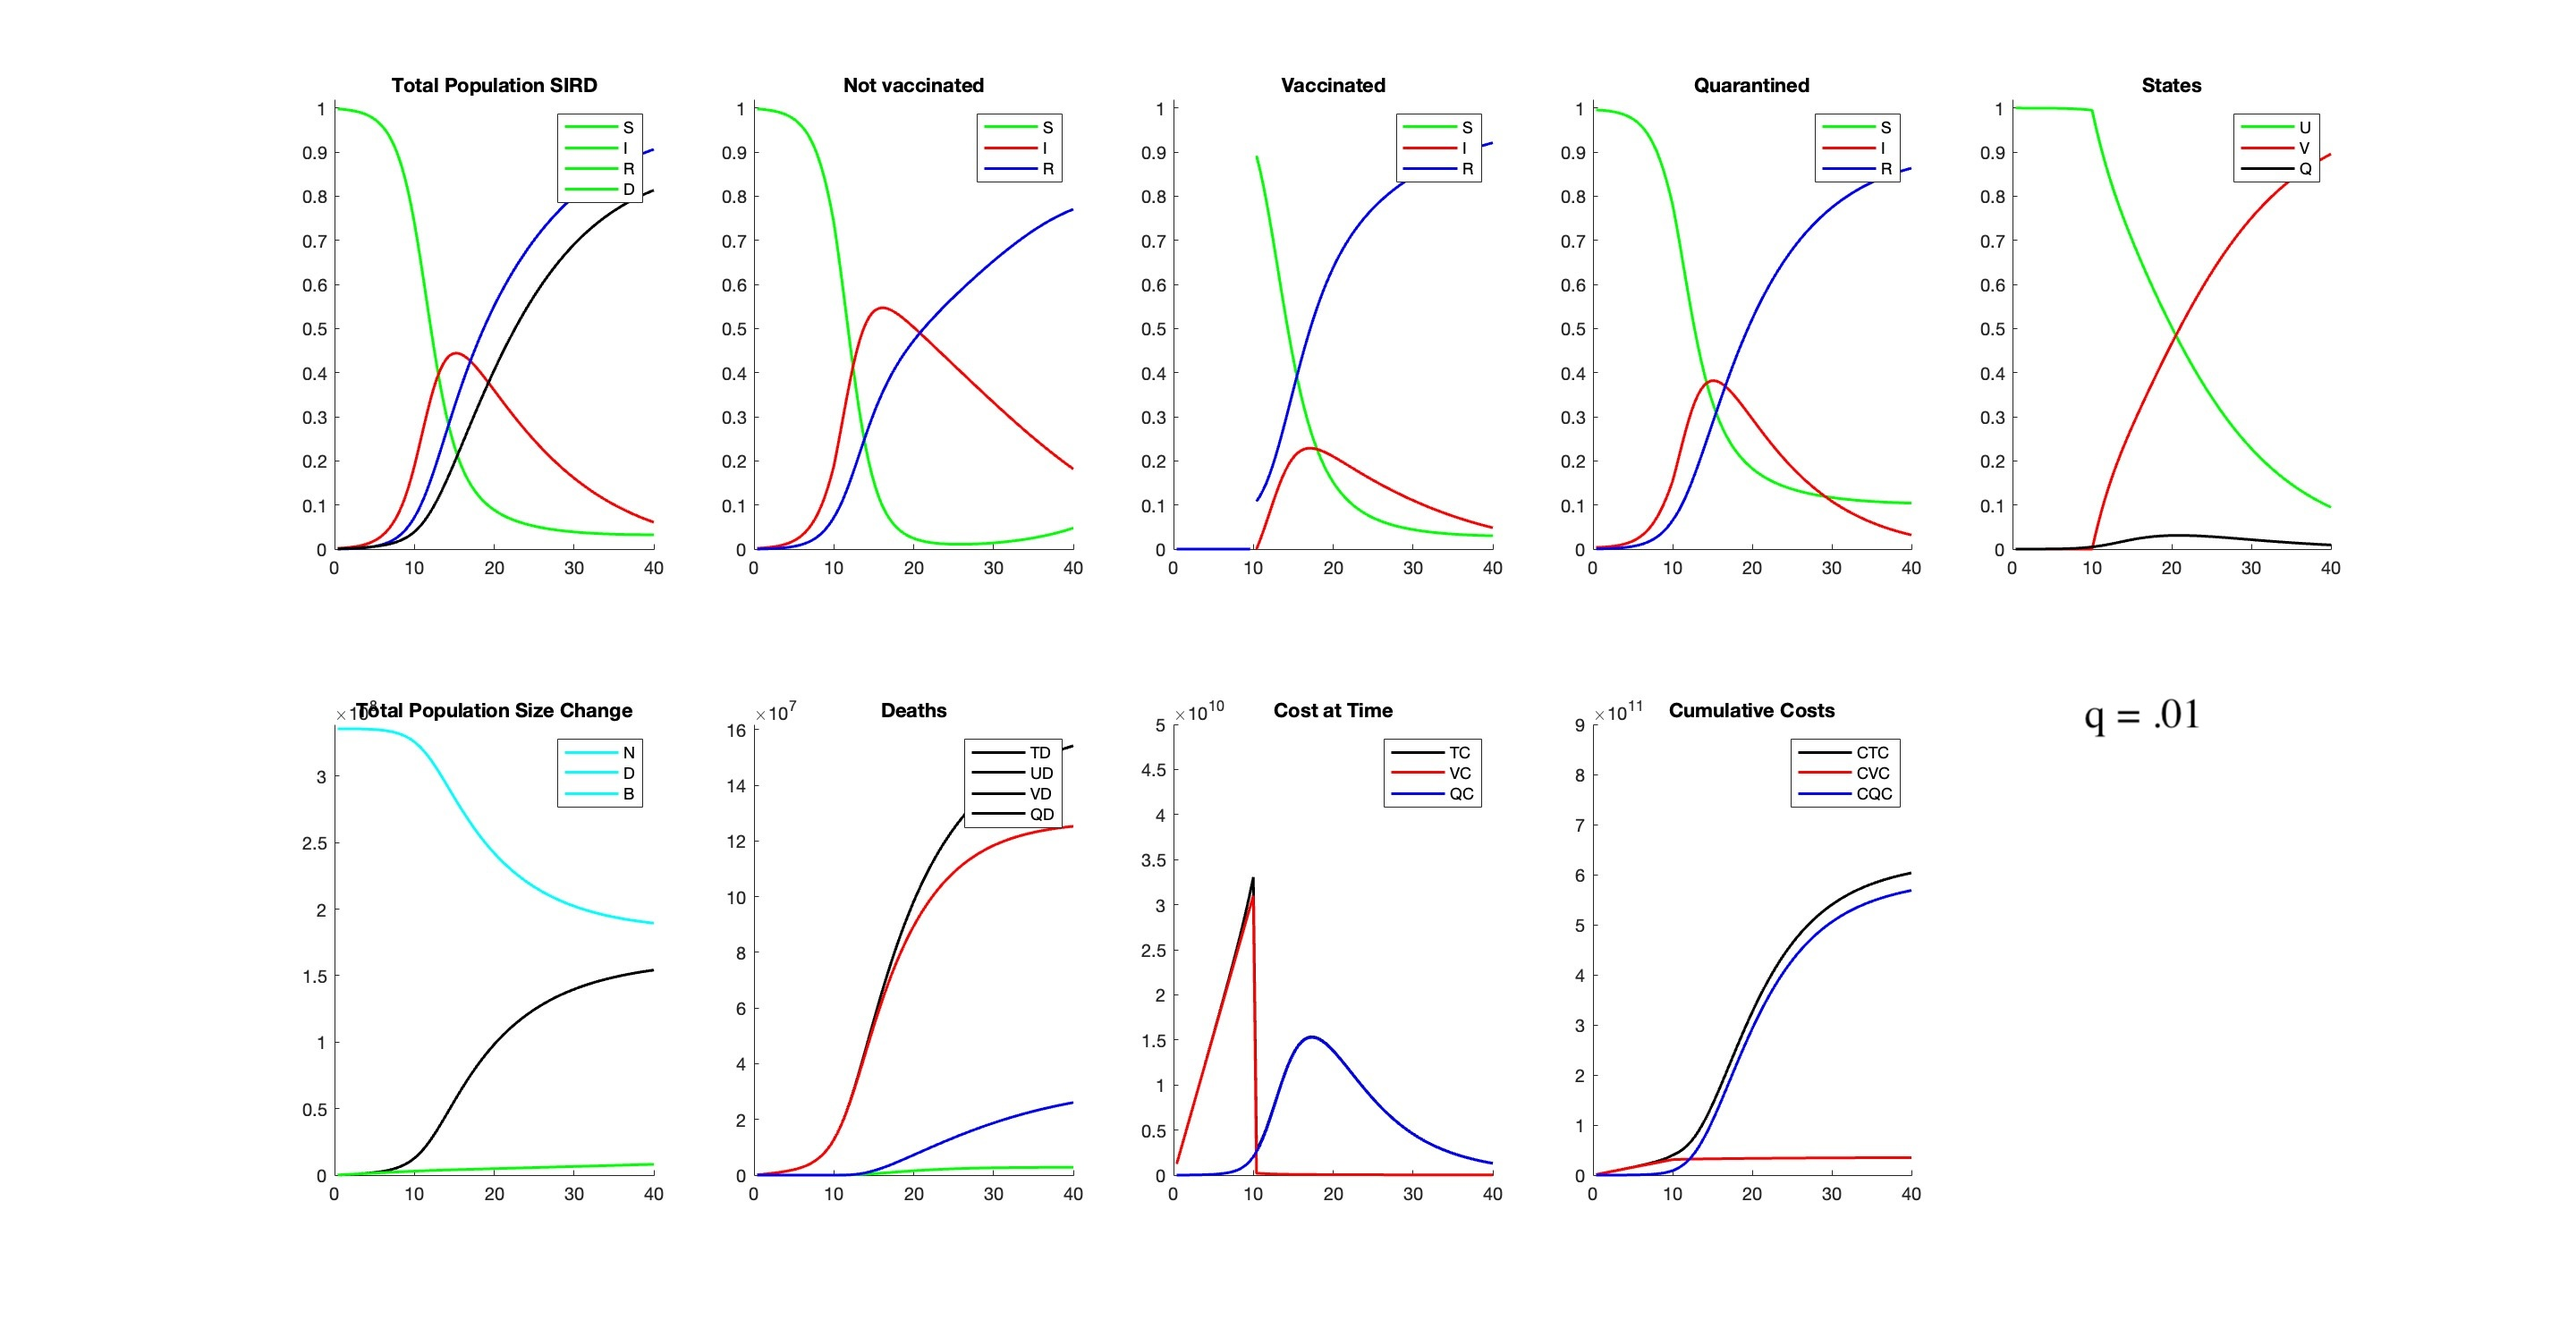
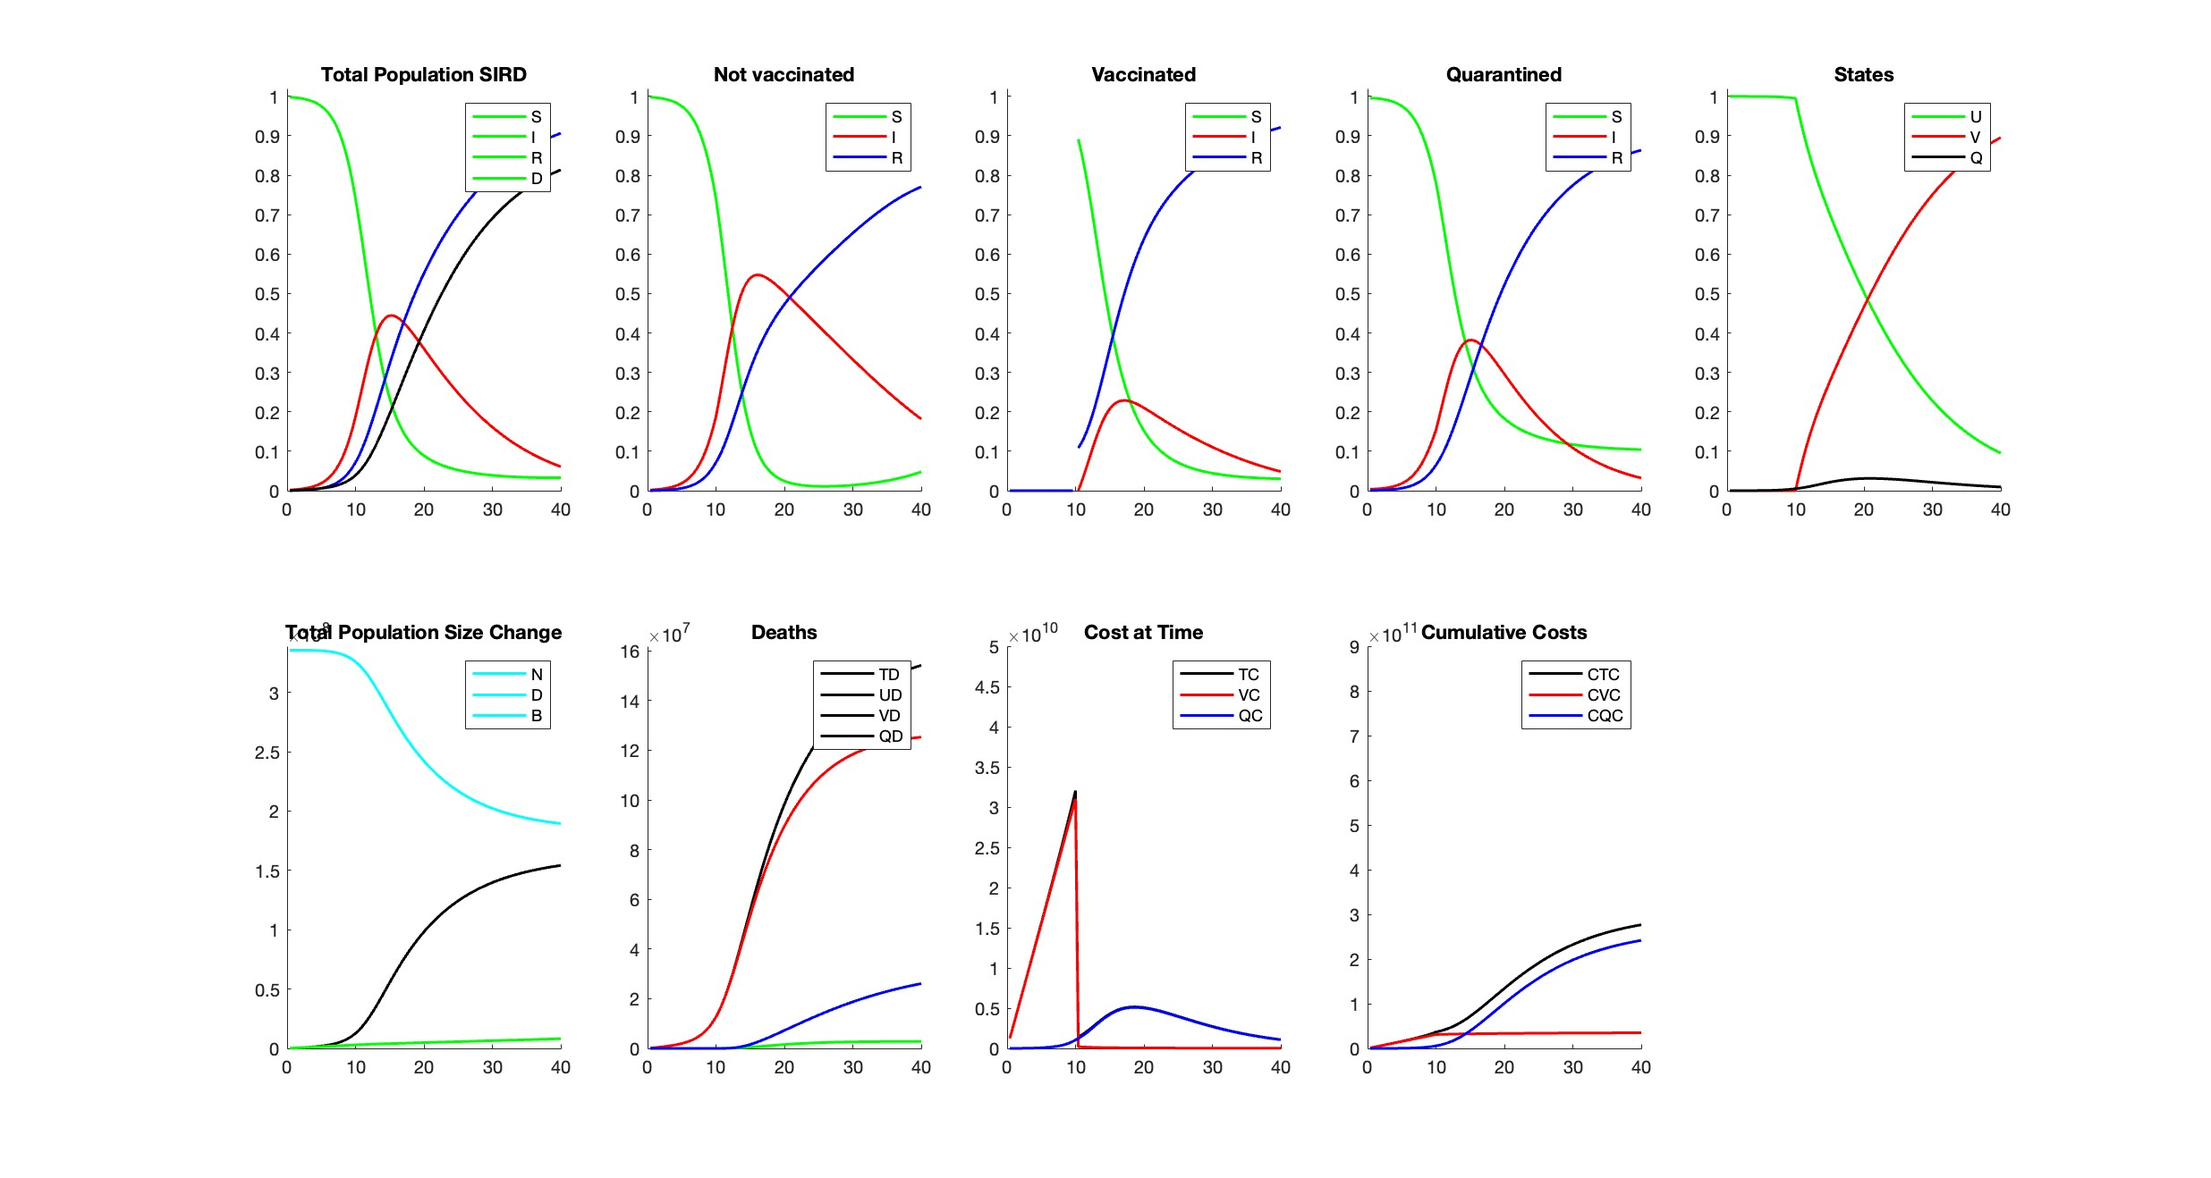
little things

diff --git a/modelv1.m b/modelv1.m
@@ -17,7 +17,7 @@ dt = tmax/clockmax ;% Calculates the duration of each time step.
 vDevelopTime = 10 * month;
 vDevelopCost = 31 * (10 ^ 9) / vDevelopTime;
 vCostPerDose = 20;
-qDailyCostI = 400/day;
+qDailyCostI = 70/day;
 qDailyCostH = 50/day;
 
 A           = 0.85/month; 
@@ -38,7 +38,7 @@ deltaVI     = 0.051 / month;         % https://www.ncbi.nlm.nih.gov/pmc/articles
 deltaI      = [deltaUI, deltaVI, deltaUI]; % Death rate for infected individuals
 
 vr          = 0.1 /month;       % Vaccination rate % https://usafacts.org/visualizations/covid-vaccine-tracker-states/
-qr          = 0.05/month;        % Quarantine rate
+qr          = .01/month;        % Quarantine rate
 
 intialI = 0.5 * (10^6);
 initialN = 335 * (10^6) + intialI; % https://census.gov/quickfacts/fact/table/US/PST045221
@@ -77,7 +77,7 @@ CQCsave = zeros(clockmax, 1);
 
 
 %% Create the figure and subplots
-figure('NumberTitle','off', 'Name', [' vr ' num2str(vr*month) 'rq' num2str(vr*month)]);
+figure('NumberTitle','off', 'Name', [' vr ' num2str(vr*month) 'qr' num2str(qr*month)]);
 
 subplot(2,m,1);
 hold on
